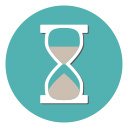
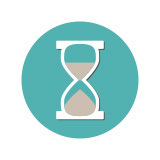
restyling paypal activity

diff --git a/fez_spider/fez_spider/Program.cs b/fez_spider/fez_spider/Program.cs
@@ -58,6 +58,7 @@ namespace fez_spider
         private GHI.Glide.UI.Button _ccConfirmBtn;
         private GHI.Glide.UI.TextBlock _ccErrMsg;
         private GHI.Glide.UI.Button _backToOrderBtn;
+        private GHI.Glide.UI.Button _backToPaymentBtn;
         private Image _qrCodeSample;
         private Image waitQRCode;
         
@@ -253,13 +254,15 @@ namespace fez_spider
 
             /* Payment Via Paypal */
             _paypal_payment = GlideLoader.LoadWindow(Resources.GetString(Resources.StringResources.paypalPaymentWindow));
+            _backToPaymentBtn = (GHI.Glide.UI.Button)_paypal_payment.GetChildByName("BackToPaymentBtn");
             _paypal_doneBtn = (GHI.Glide.UI.Button)_paypal_payment.GetChildByName("doneBtn");
             _paypal_doneBtn.Visible = false;
             _paypal_doneBtn.Enabled = false;
-            _qrCodeSample = new Image("qrcode", 255, 80, 20, 160, 160);
+            _qrCodeSample = new Image("qrcode", 255, 10, 47, 160, 160);
+            _qrCodeSample.Visible = false;
             _paypal_payment.AddChild(_qrCodeSample);
 
-            waitQRCode = new Image("clessidra", 255, 96, 30, 128, 128);
+            waitQRCode = new Image("clessidra", 128, 10, 47, 160, 160);
             waitQRCode.Bitmap = new Bitmap(Resources.GetBytes(Resources.BinaryResources.waitingQR), Bitmap.BitmapImageType.Jpeg);
             waitQRCode.Visible = true;
             _paypal_payment.AddChild(waitQRCode);
@@ -313,6 +316,7 @@ namespace fez_spider
             _ccBackBtn.TapEvent += _ccBackBtnTapEvent;
             _ccConfirmBtn.TapEvent += _ccConfirmBtnTapEvent;
             _backToOrderBtn.TapEvent += _backToOrderBtnTapEvent;
+            _backToPaymentBtn.TapEvent += _backToPaymentBtn_TapEvent;
 
 
 
@@ -356,6 +360,11 @@ namespace fez_spider
 
 
 
+        }
+
+        private void _backToPaymentBtn_TapEvent(object sender)
+        {
+            loadGUI(_scegliPagamento);
         }
 
         private void _paypal_doneBtn_PressEvent(object sender)
